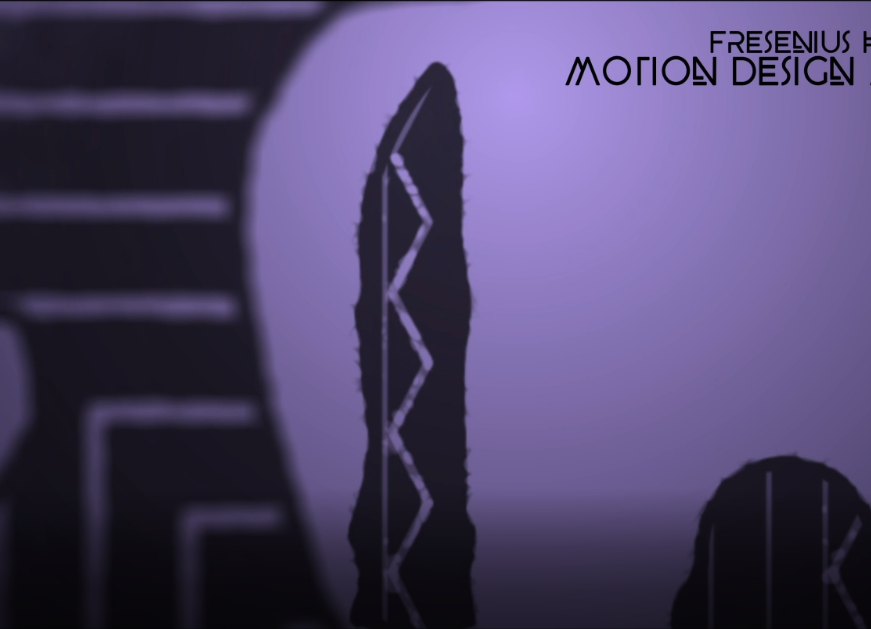
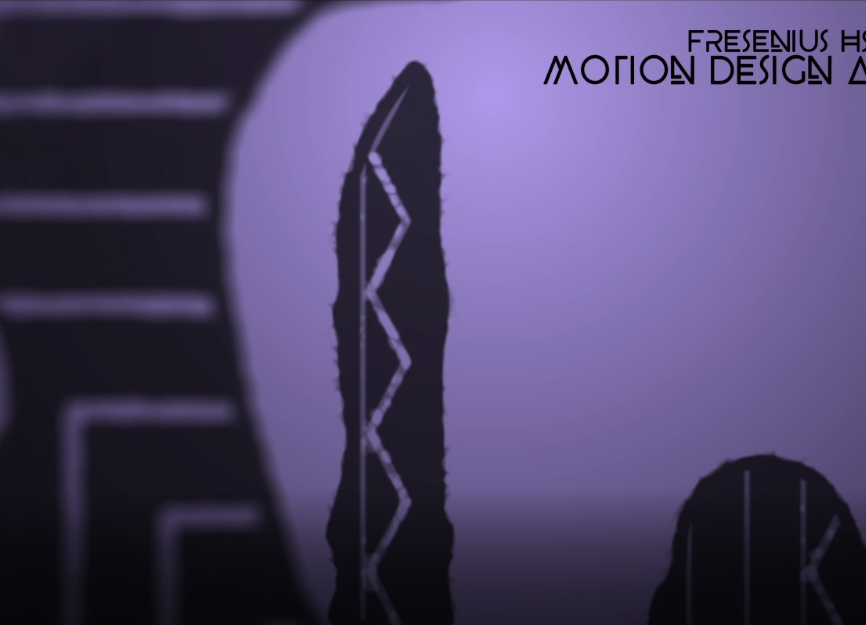
Fixed

diff --git a/css/heading.css b/css/heading.css
@@ -1,10 +1,32 @@
 /* latin */
 @font-face {
     font-family: 'SB Heading';
+    font-style: italic;
+    font-weight: 400;
+    src: local('Poppins Italic'), local('Poppins-Italic'),
+        url(https://fonts.gstatic.com/s/poppins/v9/pxiGyp8kv8JHgFVrJJLucHtAOvWDSA.woff2)
+            format('woff2');
+    unicode-range: U+0000-00FF, U+0131, U+0152-0153, U+02BB-02BC, U+02C6, U+02DA, U+02DC,
+        U+2000-206F, U+2074, U+20AC, U+2122, U+2191, U+2193, U+2212, U+2215, U+FEFF, U+FFFD;
+}
+/* latin */
+@font-face {
+    font-family: 'SB Heading';
+    font-style: italic;
+    font-weight: 700;
+    src: local('Poppins Bold Italic'), local('Poppins-BoldItalic'),
+        url(https://fonts.gstatic.com/s/poppins/v9/pxiDyp8kv8JHgFVrJJLmy15VF9eOYktMqg.woff2)
+            format('woff2');
+    unicode-range: U+0000-00FF, U+0131, U+0152-0153, U+02BB-02BC, U+02C6, U+02DA, U+02DC,
+        U+2000-206F, U+2074, U+20AC, U+2122, U+2191, U+2193, U+2212, U+2215, U+FEFF, U+FFFD;
+}
+/* latin */
+@font-face {
+    font-family: 'SB Heading';
     font-style: normal;
     font-weight: 400;
-    src: local('Montserrat Regular'), local('Montserrat-Regular'),
-        url(https://fonts.gstatic.com/s/montserrat/v14/JTUSjIg1_i6t8kCHKm459WRhyyTh89ZNpQ.woff2)
+    src: local('Poppins Regular'), local('Poppins-Regular'),
+        url(https://fonts.gstatic.com/s/poppins/v9/pxiEyp8kv8JHgFVrJJfecnFHGPc.woff2)
             format('woff2');
     unicode-range: U+0000-00FF, U+0131, U+0152-0153, U+02BB-02BC, U+02C6, U+02DA, U+02DC,
         U+2000-206F, U+2074, U+20AC, U+2122, U+2191, U+2193, U+2212, U+2215, U+FEFF, U+FFFD;
@@ -14,8 +36,8 @@
     font-family: 'SB Heading';
     font-style: normal;
     font-weight: 700;
-    src: local('Montserrat Bold'), local('Montserrat-Bold'),
-        url(https://fonts.gstatic.com/s/montserrat/v14/JTURjIg1_i6t8kCHKm45_dJE3gnD_vx3rCs.woff2)
+    src: local('Poppins Bold'), local('Poppins-Bold'),
+        url(https://fonts.gstatic.com/s/poppins/v9/pxiByp8kv8JHgFVrLCz7Z1xlFd2JQEk.woff2)
             format('woff2');
     unicode-range: U+0000-00FF, U+0131, U+0152-0153, U+02BB-02BC, U+02C6, U+02DA, U+02DC,
         U+2000-206F, U+2074, U+20AC, U+2122, U+2191, U+2193, U+2212, U+2215, U+FEFF, U+FFFD;
